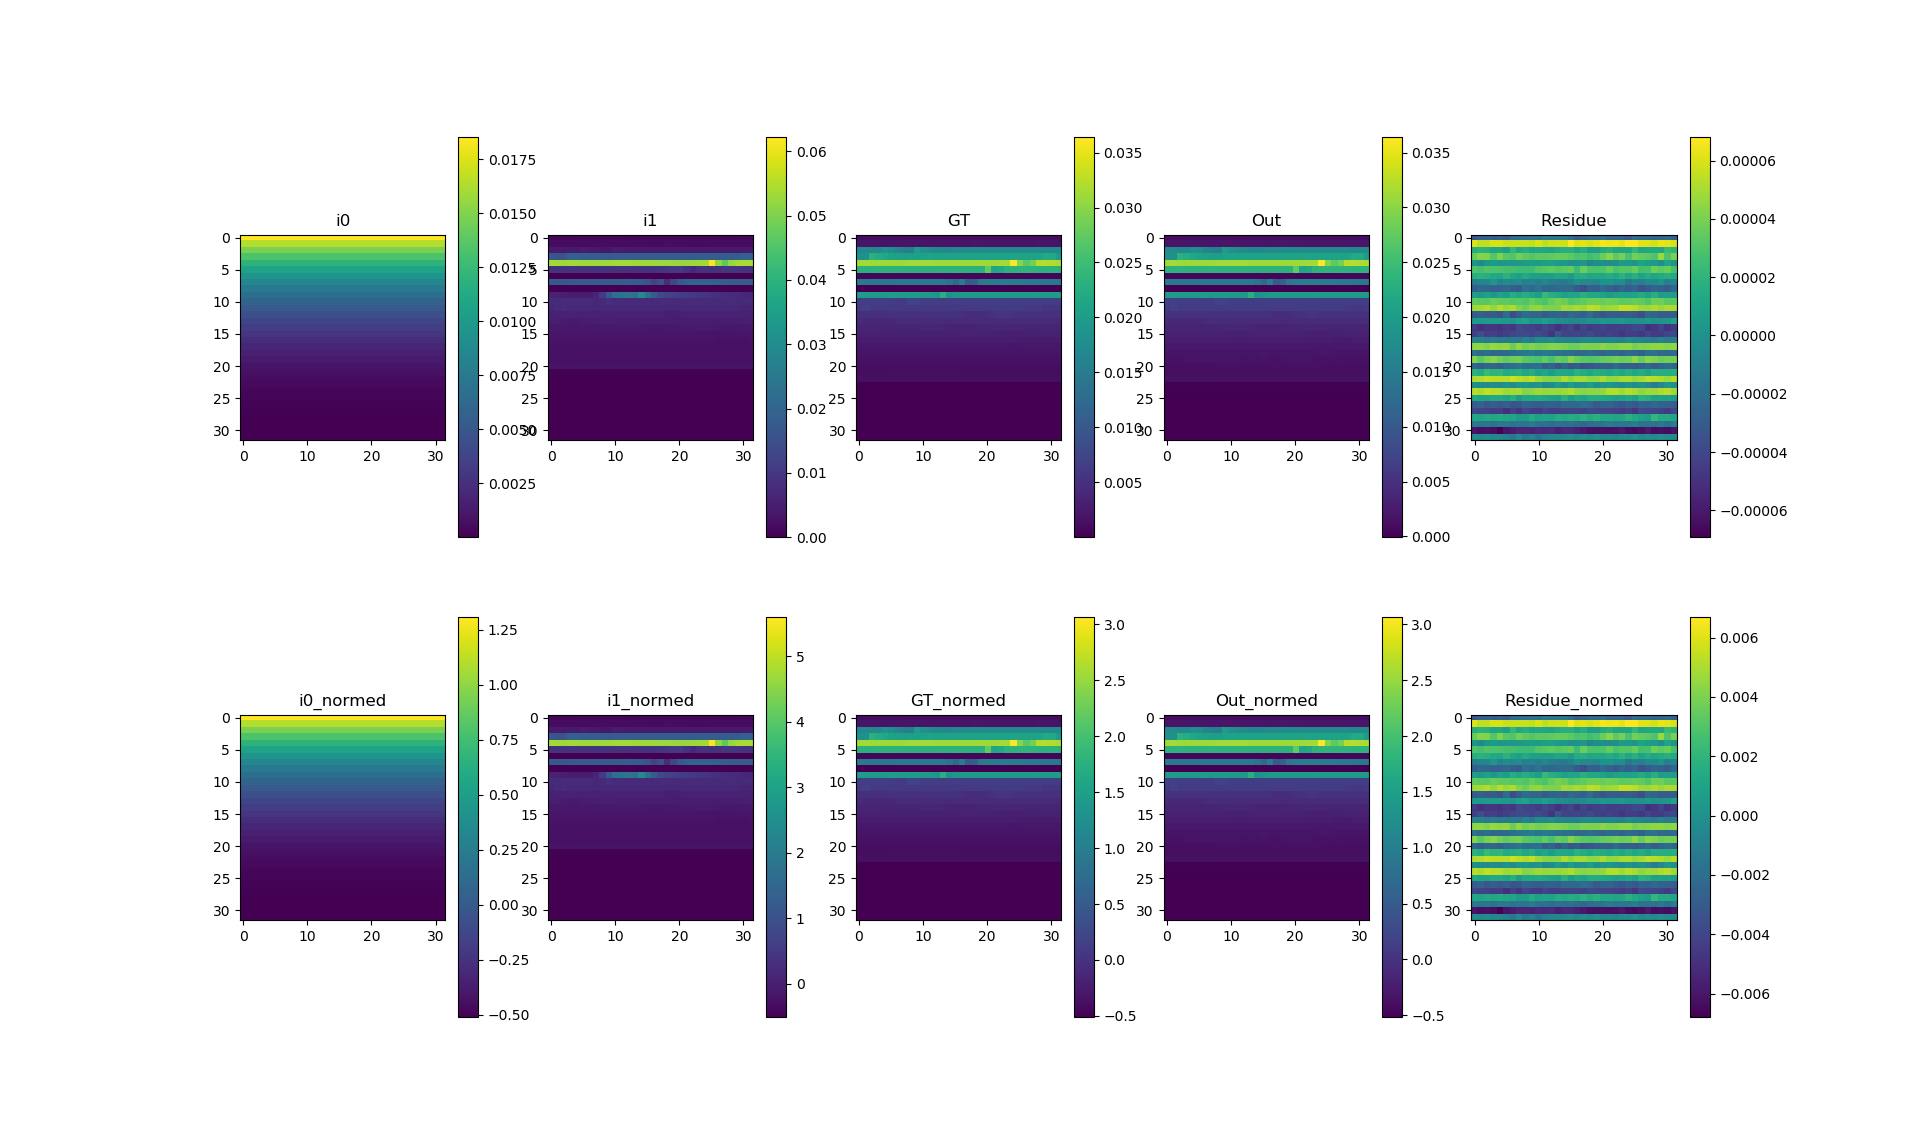
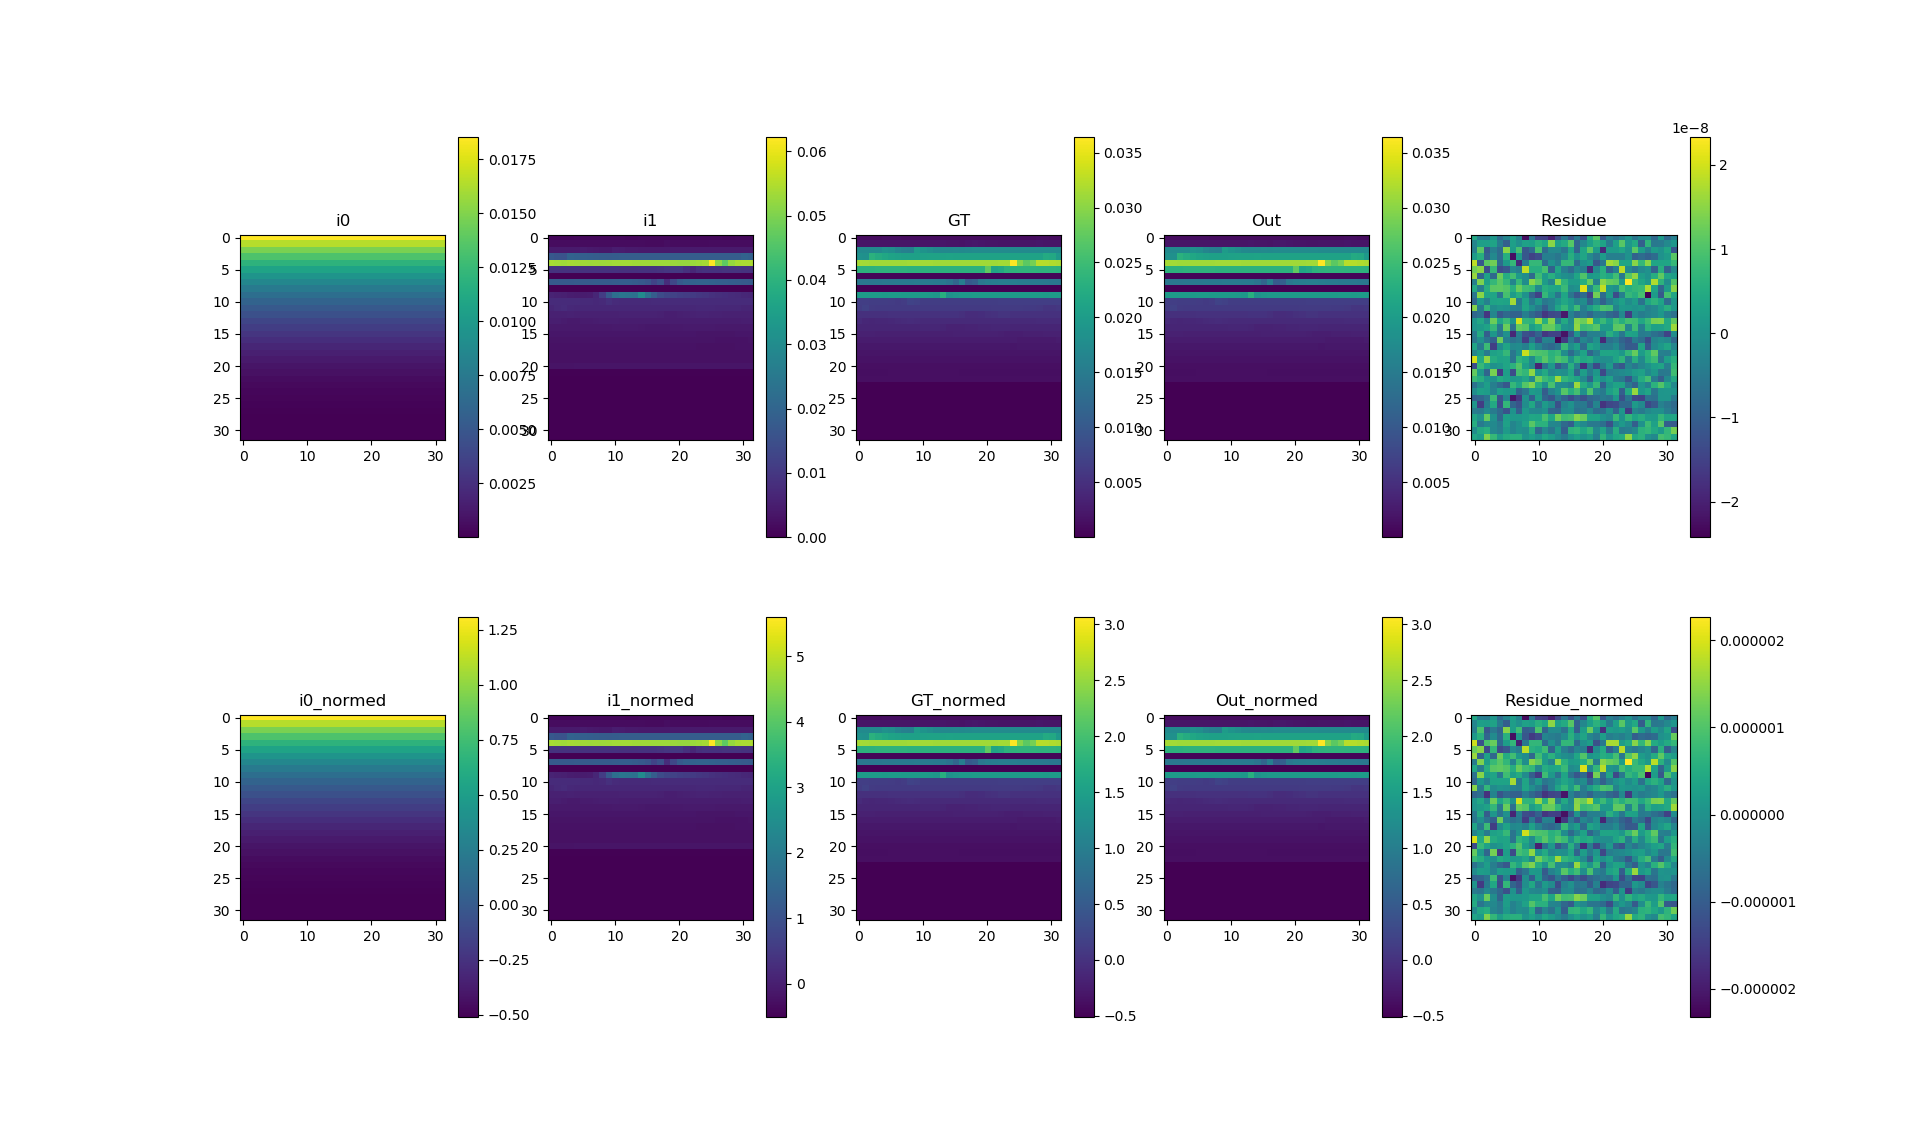
1dconv 4 chan better visualization code

diff --git a/network_pt.py b/network_pt.py
@@ -77,12 +77,12 @@ class network(object):
             self.valid_required = True
             self.data_dir = str(config.h5_dir_win)
             self.batch_size = 1
-            self.epochs = 1000
+            self.epochs = 15000
             self.min_step_diff = 74
             self.num_workers = 0
             self.report_freq = 1
             self.checkpoint_freq = 1
-            self.lr = 0.0001
+            self.lr = 0.000001
 
         # Inferenced parameter
         self.tr_data_dir = Path(self.data_dir + "_tr.h5")
@@ -183,7 +183,7 @@ class network(object):
         # self.model = UNet().to(self.device)
         # self.model = UNet2().to(self.device)
         self.optimizer = optim.Adam(self.model.parameters(), lr=self.lr)
-        # self.scheduler = optim.lr_scheduler.MultiStepLR(self.optimizer, milestones=[1, 10], gamma=0.5)
+        # self.scheduler = optim.lr_scheduler.MultiStepLR(self.optimizer, milestones=[400], gamma=0.5)
         self.criterion = MSELoss().to(self.device) # set reduction=sum, or too smal to see
         # self.criterion = L1Loss().to(self.device)
 
@@ -199,16 +199,13 @@ class network(object):
         n_batch = 0
         start = time.time()
         for b_id, (i0, i1, label) in enumerate(self.train_loader):
-            i0 = i0[:,1:2]
-            i1 = i1[:,1:2]
-            label = label[:,1:2]
             label, _i0, _i1 = label.to(self.device, non_blocking = self.non_blocking), i0.to(self.device, non_blocking = self.non_blocking), i1.to(self.device, non_blocking = self.non_blocking)
             i1_crop = _i1[:,:,self.ltl[0]:self.lbr[0],self.ltl[1]:self.lbr[1]] 
             duo = torch.cat([_i0, _i1], dim=1)
             self.optimizer.zero_grad()
-            duo = torch.reshape(duo, (self.batch_size, 2*self.crop_size[0], 1, -1))
+            duo = torch.reshape(duo, (self.batch_size, 8*self.crop_size[0], 1, -1))
             output = self.model(duo)
-            output = torch.reshape(output, (self.batch_size, 1, self.label_size[0], -1))
+            output = torch.reshape(output, (self.batch_size, 4, self.label_size[0], -1))
             loss = self.criterion(output + i1_crop, label)
             loss.backward()
             self.optimizer.step()
@@ -216,6 +213,7 @@ class network(object):
             self.step += 1
             n_batch += 1 
             print("step{}, loss: {:.4f}".format(self.step, loss.item()))
+            pdb.set_trace()
 
         print("Time {} sec".format(time.time() - start))
         
@@ -232,17 +230,14 @@ class network(object):
 
         with torch.no_grad():
             for b_id, (i0, i1, label) in enumerate(self.valid_loader):
-                i0 = i0[:,1:2]
-                i1 = i1[:,1:2]
-                label = label[:,1:2]
                 label, _i0, _i1 = label.to(self.device, non_blocking = self.non_blocking), i0.to(self.device, non_blocking = self.non_blocking), i1.to(self.device, non_blocking = self.non_blocking)
                 # Only cut i1 for err calc
                 i1_crop = _i1[:,:,self.ltl[0]:self.lbr[0],self.ltl[1]:self.lbr[1]]
                 # Concatenate two input imgs in NCHW format
                 duo = torch.cat([_i0, _i1], dim=1)
-                duo = torch.reshape(duo, (self.batch_size, 2*self.crop_size[0], 1, -1))
+                duo = torch.reshape(duo, (self.batch_size, 8*self.crop_size[0], 1, -1))
                 output = self.model(duo)
-                output = torch.reshape(output, (self.batch_size, 1, self.label_size[0], -1))
+                output = torch.reshape(output, (self.batch_size, 4, self.label_size[0], -1))
                 # MSE Loss
                 loss = self.criterion(output + i1_crop, label)
                 valid_loss += loss.item()
@@ -358,7 +353,7 @@ class network(object):
         # print("Checkpoint removed upon training complete")
 
 
-    def test_single(self, triplet_id = None, step_diff = None, audience = 'normal', dataset = 'va'):
+    def test_single(self, triplet_id=None, step_diff=None, audience='normal', dataset='va', var=1):
         '''
         Visualize using trained model
         triplet_id: triplet index to use, default will be random
@@ -366,7 +361,6 @@ class network(object):
         audience: 'normal' or 'pipeline' for different visualization arrangement
         '''
         var = 1
-        n_row = 5
         pick = chan(var)
         if step_diff:
             self.min_step_diff = step_diff[0]
@@ -444,46 +438,39 @@ class network(object):
         # Run the network with input
         self.model.eval()
         with torch.no_grad():
-            i0_padded = i0_padded[var:var+1]
-            i1_padded = i1_padded[var:var+1]
             duo = torch.cat([i0_padded, i1_padded], dim=0)
-            duo = torch.unsqueeze(duo, 0)
-            duo = torch.reshape(duo, (self.batch_size, 2*self.crop_size[0], 1, -1))
+            duo = torch.reshape(duo, (1, 8*self.crop_size[0], 1, -1))
             output = self.model(duo)
-            output = torch.reshape(output, (self.batch_size, 1, self.label_size[0], -1))
-            out = output[0] + pick(i1_normed)
-            residue = out - pick(label_normed)
+            output = torch.reshape(output, (1, 4, self.label_size[0], -1))
+            out = output[0] + i1_normed
+            residue = out - label_normed
 
         # Visualize and add to summary
-        output = output[0]
-        out_unormed = out * std[var] + mean[var]
+        mean, std = mean[var], std[var]
+        out_unormed = pick(out) * std + mean
         residue_unormed = np.array(out_unormed) - pick(label)
-        original_diff = i0 - label
-        original_diff = pick(original_diff)
-        i0 = pick(i0)
-        i1 = pick(i1)
-        label = pick(label)
+        original_diff = pick(i0 - label)
         # plt.figure(figsize=(20, 4), dpi=200) # default dpi 6.4, 4.8
         if audience == 'normal':
             plt.subplot(251)
             plt.title('i0')
-            plt.imshow(i0)
+            plt.imshow(pick(i0))
             plt.colorbar()
             plt.subplot(252)
             plt.title('i1')
-            plt.imshow(i1)
+            plt.imshow(pick(i1))
             plt.colorbar()
             plt.subplot(253)
             plt.title('GT')
-            plt.imshow(label) 
+            plt.imshow(pick(label)) 
             plt.colorbar() 
             plt.subplot(254)
             plt.title('Out')
-            plt.imshow(out_unormed[0])
+            plt.imshow(out_unormed)
             plt.colorbar()
             plt.subplot(255)
             plt.title('Residue')
-            plt.imshow(residue_unormed[0], vmax=0.001, vmin=-0.001)
+            plt.imshow(residue_unormed)
             plt.colorbar()
             # Second row
             plt.subplot(256)
@@ -500,37 +487,37 @@ class network(object):
             plt.colorbar()
             plt.subplot(259)
             plt.title('Out_normed')
-            plt.imshow(out[0])
+            plt.imshow(pick(out))
             plt.colorbar()
             plt.subplot(2, 5, 10)
             plt.title('Residue_normed')
-            plt.imshow(residue[0])
+            plt.imshow(pick(residue))
             plt.colorbar()
         elif audience == 'pipeline':
             plt.subplot(131)
             plt.title('i0_padded')
-            plt.imshow(i0_padded[0])
+            plt.imshow(pick(i0_padded))
             plt.colorbar()
             plt.subplot(132)
             plt.title('i1_padded')
-            plt.imshow(i1_padded[0])
+            plt.imshow(pick(i1_padded))
             plt.colorbar()
             plt.subplot(133)
             plt.title('Network_immediate_output')
-            plt.imshow(output[0])
+            plt.imshow(pick(output[0]))
             plt.colorbar()
         else:
             raise ValueError("Unknown audience")
 
         # self.writer.add_images('triplet', np.expand_dims(np.stack([i0[:,:,var], label[:,:,var], i1[:,:,var]]), 3), dataformats='NHWC')
-        self.writer.add_image('img4_i0padded', pad(i0), dataformats='HW')
-        self.writer.add_image('img5_i1padded', pad(i1), dataformats='HW')
-        self.writer.add_image('img2_label', label, dataformats='HW')
-        self.writer.add_image('img7_network_output', output + torch.min(output), dataformats='CHW')
-        self.writer.add_image('img6_residue', residue_unormed + np.amin(residue_unormed), dataformats='CHW')
-        self.writer.add_image('img3_synthetic', out_unormed + torch.min(out_unormed), dataformats='CHW')
-        self.writer.add_image('img0_resized_i0', i0, dataformats='HW')
-        self.writer.add_image('img1_resized_i1', i1, dataformats='HW')
+        self.writer.add_image('img4_i0padded', pad(pick(i0)), dataformats='HW')
+        self.writer.add_image('img5_i1padded', pad(pick(i1)), dataformats='HW')
+        self.writer.add_image('img2_label', pick(label), dataformats='HW')
+        self.writer.add_image('img7_network_output', pick(output[0]) + torch.min(pick(output[0])), dataformats='HW')
+        self.writer.add_image('img6_residue', residue_unormed + np.amin(residue_unormed), dataformats='HW')
+        self.writer.add_image('img3_synthetic', out_unormed + torch.min(out_unormed), dataformats='HW')
+        self.writer.add_image('img0_resized_i0', pick(i0), dataformats='HW')
+        self.writer.add_image('img1_resized_i1', pick(i1), dataformats='HW')
         self.writer.close()
         
         # plt.savefig("a.png")
@@ -539,7 +526,7 @@ class network(object):
         print("Image_t0_idx: {}, Image_t1_idx: {}, label_idx: {}".format(info_dict["img1_idx"], info_dict["img2_idx"], info_dict["label_idx"]))
         print("Residue sum: ", np.sum(np.abs(residue_unormed)))
         print("Original diff: ", np.sum(np.abs(original_diff)))
-        print("PSNR: ", psnr(label, (np.asarray(out_unormed) + 0.5), 1))
+        print("PSNR: ", psnr(pick(label), (np.asarray(out_unormed) + 0.5), 1))
         plt.show()
 
 

diff --git a/model.py b/model.py
@@ -65,11 +65,11 @@ class ResNet(nn.Module):
         super(ResNet, self).__init__()
         self.fan_in = 64
         # self.conv1 = ConvBlock(2, 64, bias=True)
-        self.conv1 = ConvBlock(64, 64, bias=True)
+        self.conv1 = ConvBlock(2*4*32, 64, bias=True)
         self.layer1 = self._make_layer(ResUnit, 128, 1)
         self.layer2 = self._make_layer(ResUnit, 256, 1)
         self.layer3 = self._make_layer(ResUnit, 512, 1)
-        self.out_conv = ConvBlock(512, 32, bias=True)
+        self.out_conv = ConvBlock(512, 1*4*32, bias=True)
 
 
     def _make_layer(self, block, fan_out, blocks, stride=1, **kwargs):

diff --git a/main.py b/main.py
@@ -33,7 +33,7 @@ def main():
 
     solver = network(config)
     if config.m == 'v':
-        solver.test_single(triplet_id=0, step_diff=(74, None), dataset='tr', audience='normal') # set min step diff to make the input fixed
+        solver.test_single(triplet_id=0, step_diff=(74, None), dataset='tr', audience='normal', var=1) # set min step diff to make the input fixed
     elif config.m == 'save':
         save_to_h5(config, trva=True, polar=False, size=config.input_size)
     elif config.m == 'stats':
